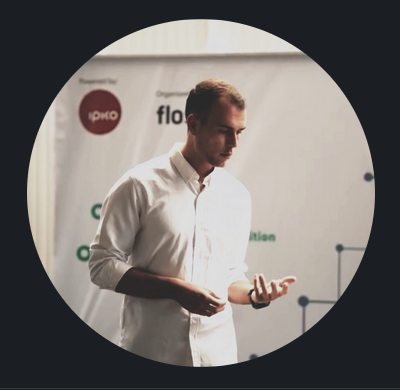
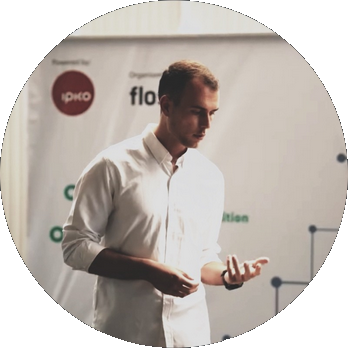
Light/Dark Button fixed

diff --git a/css/flash_cards_style.css b/css/flash_cards_style.css
@@ -5,36 +5,6 @@
     box-sizing: border-box;
 }
 
-/* Light Mode Colors (default) */
-:root {
-    --background-color: #efeff2;
-    --primary-color: #004a2f;
-    --accent-color: #379956;
-    --button-color: #135e2b;
-    --button-hover-color: #379956;
-    --modal-bg-color: white;
-    --modal-text-color: #333;
-    --footer-bg-color: #333;
-    --footer-text-color: white;
-    --light-dark-button-color: #333;
-    --light-dark-button-inside-color: white;
-}
-
-/* Dark Mode Colors */
-body.dark-mode {
-    --background-color: #333;
-    --primary-color: #1a2a1f;
-    --accent-color: #004a2f;
-    --button-color: #004a2f;
-    --button-hover-color: #379956;
-    --modal-bg-color: #dcd5d5;
-    --modal-text-color: #333;
-    --footer-bg-color: #1a2a1f;
-    --footer-text-color: white;
-    --light-dark-button-color: white;
-    --light-dark-button-inside-color: #333;
-}
-
 body {
     font-family: Arial, sans-serif;
     display: flex;
@@ -130,12 +100,12 @@ td {
 }
 
 .front {
-    background-color: var(--primary-color);
+    background-color: var(--front-flash-card);
     color: white;
 }
 
 .back {
-    background-color: var(--accent-color);
+    background-color: var(--back-flash-card);
     color: white;
     transform: rotateY(180deg);
 }
@@ -145,7 +115,7 @@ td {
     position: fixed;
     bottom: 5px;
     right: 5px;
-    background-color: var(--accent-color);
+    background-color: var(--front-del-btn);
     color: white;
     border: none;
     padding: 5px 10px;
@@ -154,14 +124,22 @@ td {
     z-index: 2;
 }
 
+.flashcard.flipped .delete-btn {
+    background-color: var(--back-del-btn); /* New color when card is flipped */
+    color: white;
+}
+
+
 .delete-btn:hover {
     background-color: var(--button-hover-color);
 }
 
 /* Light/Dark Mode Toggle Button */
 #light_dark {
-    position: fixed;
-    bottom: 40px;
+    position: absolute;
+    margin-right: 17px;
+    margin-bottom: 20px;
+    bottom: 30px;
     right: 5px;
 }
 
@@ -169,13 +147,16 @@ td {
     background-color: var(--light-dark-button-color);
     color: var(--light-dark-button-inside-color);
     border: none;
-    padding: 17px;
-    border-radius: 50%;
+    padding-top: 6px;
+    padding-right: 10px;
+    padding-left: 10px;
+    padding-bottom: 6px;
+    font-size: 1.5rem;
     cursor: pointer;
-    box-shadow: 0 4px 8px rgba(0, 0, 0, 0.2);
-    transition: background-color 0.3s ease;
+    border-radius: 50%;
+    transition: background-color 0.3s;
 }
 
 #light_dark_button:hover {
-    background-color: #e0e0e0;
+background-color: #e0e0e0;
 }

diff --git a/footer.html b/footer.html
@@ -32,6 +32,13 @@
             --footer-text-color: #ffffff;       /* White footer text for strong contrast */
             --light-dark-button-color: #3a3a3a; /* Consistent dark gray for toggle button */
             --light-dark-button-inside-color: #f5f5fa; /* Matches background for unity */
+            --light-dark-button-hover-color: #878585;
+
+            /* flash card colors */
+            --back-flash-card: #356859;
+            --back-del-btn: #3a3a3a;
+            --front-flash-card: #CA97A6;
+            --front-del-btn: #3a3a3a;
         }
 
         /* Dark Mode Colors */
@@ -47,11 +54,21 @@
             --footer-text-color: #f0f0f0;       /* Light gray for footer text */
             --light-dark-button-color: #f0f0f0; /* Consistent light gray for toggle button */
             --light-dark-button-inside-color: #2b2b2e; /* Matches dark background for unity */
+            --light-dark-button-hover-color: #bcbbbb;
+
             --study-info-color: #f0f0f0;        /* Light text color for study information readability */
+
+            /* book colors */
             --book-page-color: #e8e1e1;
             --book-text-color: #3a3a3a;
             --book-background-color: white;
             --book-border-color: #333;
+
+            /* flash card colors */
+            --front-flash-card: #356859;
+            --front-del-btn: #3a3a3a;
+            --back-flash-card: #CA97A6;
+            --back-del-btn: #3a3a3a;
         }
 
 

diff --git a/js/homepage_script.js b/js/homepage_script.js
@@ -71,6 +71,9 @@ const studyIcon = document.getElementById('studyIcon');
 const breakBtn = document.getElementById('breakBtn');
 const breakIcon = document.getElementById('breakIcon');
 
+const lightDark = document.getElementById('lightDark');
+const lightDarkBtn = document.getElementById('light_dark_button');
+
 // Open modals when "Select Timer" or "Select Break" is clicked
 selectTimerBtn.onclick = () => (modal.style.display = 'flex');
 selectBreakBtn.onclick = () => (bModal.style.display = 'flex');
@@ -283,4 +286,17 @@ function formatTime(seconds) {
 
 document.getElementById('light_dark_button').addEventListener('click', function() {
     document.body.classList.toggle('dark-mode');
+    if (lightDark.classList.contains('fa-moon-o')) {
+        lightDark.classList.replace('fa-moon-o', 'fa-sun-o');
+        lightDarkBtn.style.paddingTop = '6px';
+        lightDarkBtn.style.paddingRight = '8px';
+        lightDarkBtn.style.paddingLeft = '8px';
+        lightDarkBtn.style.paddingBottom = '6px';
+    } else {
+        lightDark.classList.replace('fa-sun-o', 'fa-moon-o');
+        lightDarkBtn.style.paddingTop = '6px';
+        lightDarkBtn.style.paddingLeft = '10px';
+        lightDarkBtn.style.paddingRight = '10px';
+        lightDarkBtn.style.paddingBottom = '6px';
+    }
 });

diff --git a/css/cornell_style.css b/css/cornell_style.css
@@ -73,3 +73,30 @@ header input[type="text"] {
     font-size: 18px;
     border: 1px solid #ddd;
 }
+
+/* Light/Dark Mode Toggle Button */
+#light_dark {
+    position: absolute;
+    margin-right: 17px;
+    margin-bottom: 20px;
+    bottom: 30px;
+    right: 5px;
+}
+
+#light_dark_button {
+    background-color: var(--light-dark-button-color);
+    color: var(--light-dark-button-inside-color);
+    border: none;
+    padding-top: 6px;
+    padding-right: 10px;
+    padding-left: 10px;
+    padding-bottom: 6px;
+    font-size: 1.5rem;
+    cursor: pointer;
+    border-radius: 50%;
+    transition: background-color 0.3s;
+}
+
+#light_dark_button:hover {
+background-color: #e0e0e0;
+}

diff --git a/css/homepage.css b/css/homepage.css
@@ -212,7 +212,10 @@ button:hover {
     background-color: var(--light-dark-button-color);
     color: var(--light-dark-button-inside-color);
     border: none;
-    padding: 10px;
+    padding-top: 6px;
+    padding-right: 10px;
+    padding-left: 10px;
+    padding-bottom: 6px;
     font-size: 1.5rem;
     cursor: pointer;
     border-radius: 50%;
@@ -220,5 +223,5 @@ button:hover {
 }
 
 #light_dark_button:hover {
-background-color: #e0e0e0;
+background-color: var(--light-dark-button-hover-color);
 }

diff --git a/css/study.css b/css/study.css
@@ -125,7 +125,10 @@ body.dark-mode .background {
     background-color: var(--light-dark-button-color);
     color: var(--light-dark-button-inside-color);
     border: none;
-    padding: 10px;
+    padding-top: 6px;
+    padding-right: 10px;
+    padding-left: 10px;
+    padding-bottom: 6px;
     font-size: 1.5rem;
     cursor: pointer;
     border-radius: 50%;

diff --git a/flash_cards.html b/flash_cards.html
@@ -30,8 +30,8 @@
 
     <!-- Light/Dark Mode Toggle Button -->
     <div id="light_dark">
-        <button id="light_dark_button"> 
-            <i class="fa fa-picture-o" aria-hidden="true"></i>
+        <button id="light_dark_button">
+            <i id="lightDarkBtn" class="fa fa-moon-o" aria-hidden="true"></i>
         </button>
     </div>
 

diff --git a/css/about.css b/css/about.css
@@ -117,7 +117,10 @@ main {
     background-color: var(--light-dark-button-color);
     color: var(--light-dark-button-inside-color);
     border: none;
-    padding: 10px;
+    padding-top: 6px;
+    padding-right: 10px;
+    padding-left: 10px;
+    padding-bottom: 6px;
     font-size: 1.5rem;
     cursor: pointer;
     border-radius: 50%;

diff --git a/css/minigames.css b/css/minigames.css
@@ -150,7 +150,10 @@ p {
     background-color: var(--light-dark-button-color);
     color: var(--light-dark-button-inside-color);
     border: none;
-    padding: 10px;
+    padding-top: 6px;
+    padding-right: 10px;
+    padding-left: 10px;
+    padding-bottom: 6px;
     font-size: 1.5rem;
     cursor: pointer;
     border-radius: 50%;

diff --git a/cornell_notes.html b/cornell_notes.html
@@ -34,6 +34,12 @@
         </div>
     </main>
 
+    <div id="light_dark">
+        <button id="light_dark_button">
+            <i id="lightDarkBtn" class="fa fa-moon-o" aria-hidden="true"></i>
+        </button>
+    </div>
+    
     <!-- Footer Section -->
     <div id="footer"></div>
 <script src="js/header_load.js"></script>

diff --git a/study_meth.html b/study_meth.html
@@ -93,7 +93,7 @@
 
     <div id="light_dark">
         <button id="light_dark_button">
-            <i class="fa fa-picture-o" aria-hidden="true"></i>
+            <i id="lightDarkBtn" class="fa fa-moon-o" aria-hidden="true"></i>
         </button>
     </div>
     <div id="footer"></div>

diff --git a/about.html b/about.html
@@ -36,7 +36,7 @@
     
     <div id="light_dark">
         <button id="light_dark_button">
-            <i class="fa fa-picture-o" aria-hidden="true"></i>
+            <i id="lightDarkBtn" class="fa fa-moon-o" aria-hidden="true"></i>
         </button>
     </div>
     
